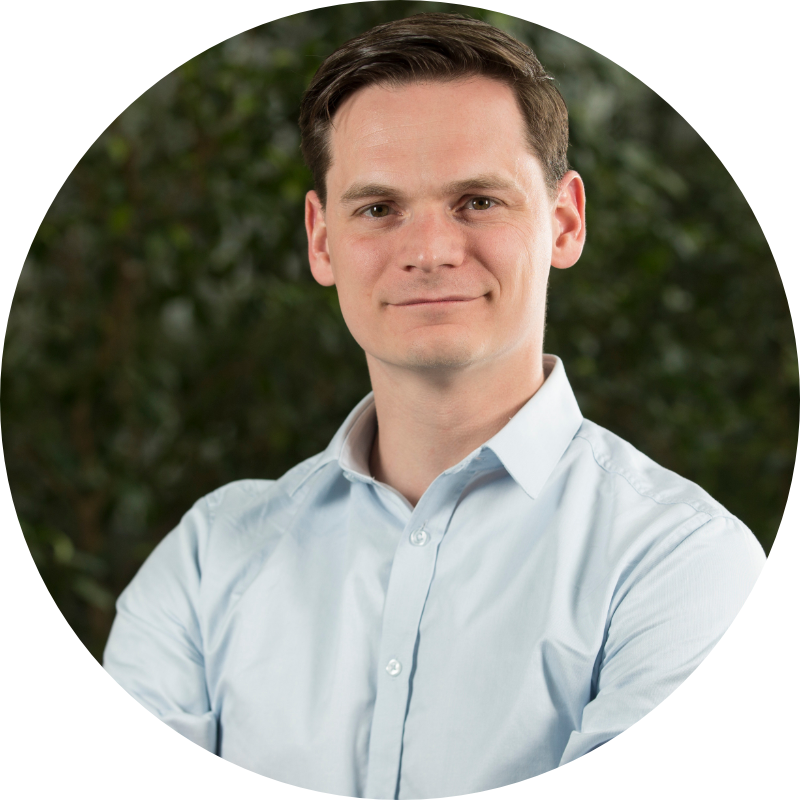
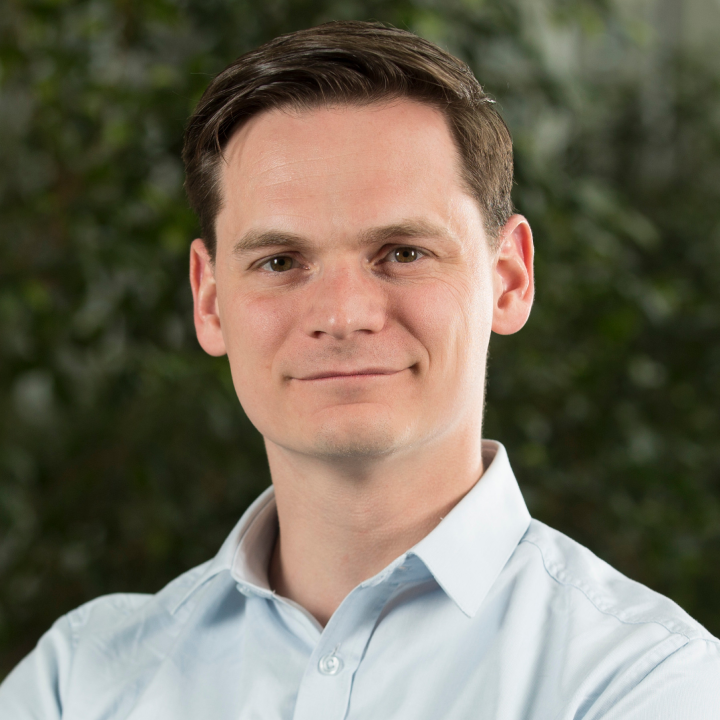
#PictureUpdate-Bib-Updated picture of Alex, Donald and Nihar

diff --git a/index.html b/index.html
@@ -523,7 +523,7 @@
                         <div class="col-lg-3 col-md-4 col-sm-6">
                             <div class="single-team mb-30">
                                 <div class="team-img">
-                                    <img class="rounded-circle1" src="assets/img/organizers/template.png" alt="">
+                                    <img class="rounded-circle1" src="assets/img/organizers/nihar.png" alt="">
                                     <!-- Blog Social -->
                                     <!-- <ul class="team-social">
                                         <li><a href="#"><i class="fab fa-facebook-f"></i></a></li>
@@ -540,7 +540,7 @@
                         <div class="col-lg-3 col-md-4 col-sm-6">
                             <div class="single-team mb-30">
                                 <div class="team-img">
-                                    <img class="rounded-circle1" src="assets/img/organizers/template.png" alt="">
+                                    <img class="rounded-circle1" src="assets/img/organizers/alex.png" alt="">
                                     <!-- Blog Social -->
                                     <!-- <ul class="team-social">
                                         <li><a href="#"><i class="fab fa-facebook-f"></i></a></li>
